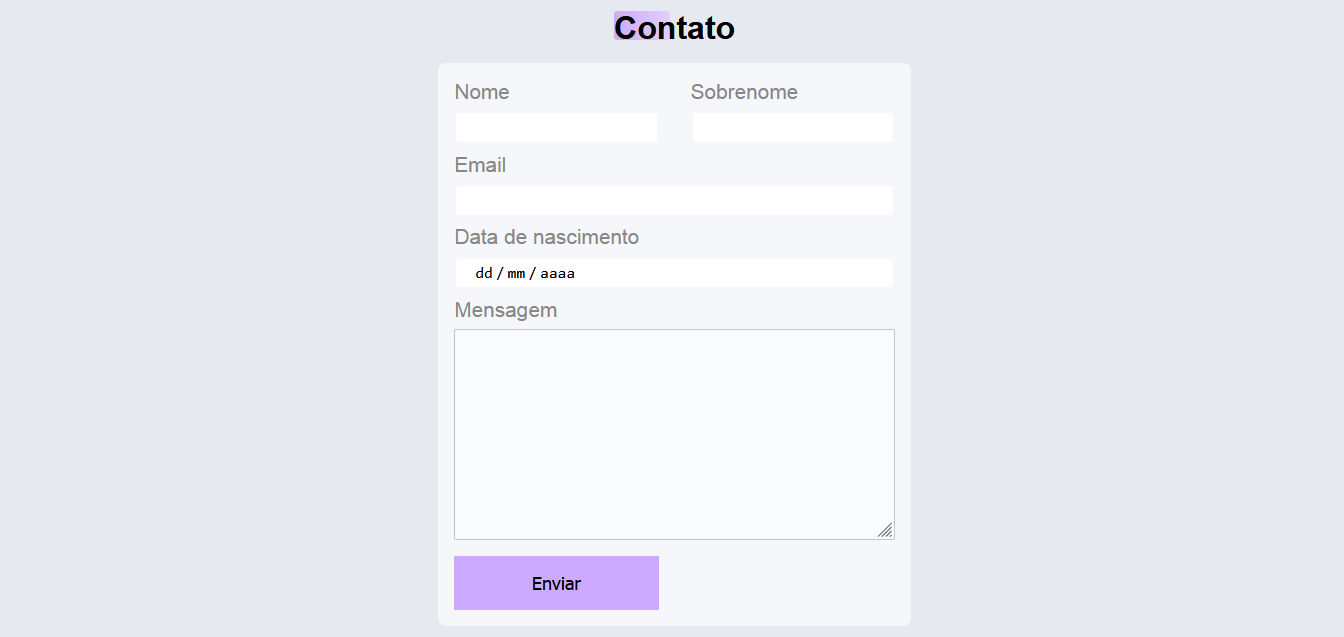
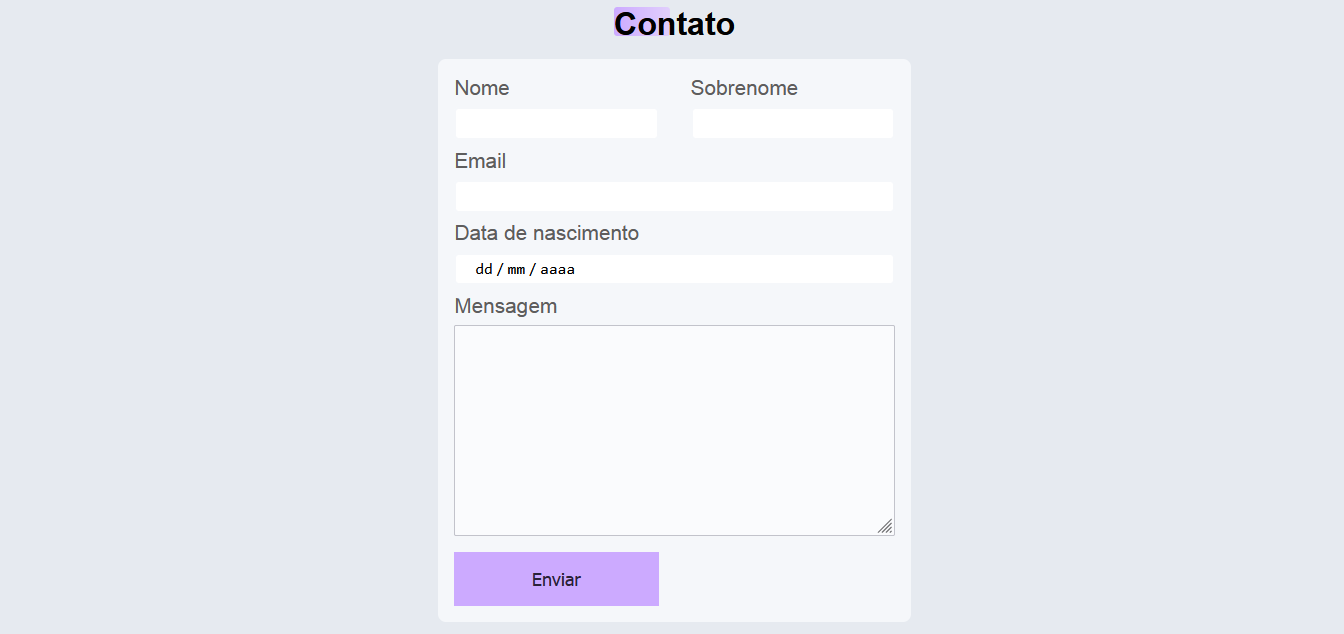
Update

diff --git a/css/style.min.css b/css/style.min.css
@@ -1,1 +1,1 @@
-:root{--fundo:#e6eaf0;--fundo-2:#f5f7fa;--cor-texto:#000000;--cor-button-texto:#634491;--cor-button-background:#ccaaff;--cor-button-hover:#e1cffc;--h1-before:linear-gradient(to right, #ccaaff, #e1cffc)}@media (prefers-color-scheme:dark){:root{--fundo:#1b1d20;--fundo-2:#404040;--cor-texto:#e3e3e3;--h1-before:linear-gradient(to right, #000000, #e6e3e3)}}*{margin:0;padding:0}body{font-family:sans-serif;background-color:var(--fundo);color:var(--cor-texto)}h1{text-align:center;font-size:2rem;margin-bottom:1rem;position:relative}h1::before{content:"";display:inline-block;background-image:var(--h1-before);width:3.5rem;height:1.8rem;position:absolute;z-index:-1;border-radius:.2rem;top:2px}form{display:grid;justify-items:start;justify-content:center}label{font-size:1.3rem;color:#878787}input{font-size:1rem;padding:.3rem 1rem;border-radius:.3rem;border:2px solid #f5f7fa}button{margin-top:.5rem;padding:1rem 2rem;font-size:18px;background-color:var(--cor-button-background);border:none;color:var(--cor-button-texto)}button:hover{background-color:var(--cor-button-hover);cursor:pointer}.container{max-width:1200px;margin-right:auto;margin-left:auto;padding:1.875rem}.container-form{background-color:var(--fundo-2);display:grid;grid-template-columns:repeat(2,1fr);gap:.5rem 2rem;padding:1rem;border-radius:.5rem}[for=sobrenome]{grid-column:2;grid-row:1}[type=email]{grid-column:1/-1}[type=date]{grid-column:1/-1}[name=mensagem]{grid-column:1/-1;font-size:1rem}@media (max-width:600px){.container{padding:10px}.container-form{grid-template-columns:1fr}[for=sobrenome]{grid-area:initial}}
+:root{--fundo:#e6eaf0;--fundo-2:#f5f7fa;--cor-texto:#000000;--cor-label-texto:#5e5d5d;--cor-button-texto:#2a2238;--cor-button-background:#ccaaff;--cor-button-hover:#e1cffc;--h1-before:linear-gradient(to right, #ccaaff, #e1cffc)}@media (prefers-color-scheme:dark){:root{--fundo:#1b1d20;--fundo-2:#404040;--cor-texto:#e3e3e3;--cor-label-texto:#bfbaba;--h1-before:linear-gradient(to right, #000000, #e6e3e3)}}*{margin:0;padding:0}body{font-family:sans-serif;background-color:var(--fundo);color:var(--cor-texto)}h1{text-align:center;font-size:2rem;margin-bottom:1rem;position:relative}h1::before{content:"";display:inline-block;background-image:var(--h1-before);width:3.5rem;height:1.8rem;position:absolute;z-index:-1;border-radius:.2rem;top:2px}form{display:grid;justify-items:start;justify-content:center}label{font-size:1.3rem;color:var(--cor-label-texto)}input{font-size:1rem;padding:.3rem 1rem;border-radius:.3rem;border:2px solid #f5f7fa}button{margin-top:.5rem;padding:1rem 2rem;font-size:18px;background-color:var(--cor-button-background);border:none;color:var(--cor-button-texto)}button:hover{background-color:var(--cor-button-hover);cursor:pointer}.container{max-width:1200px;margin-right:auto;margin-left:auto;padding:1.875rem}.container-form{background-color:var(--fundo-2);display:grid;grid-template-columns:repeat(2,1fr);gap:.5rem 2rem;padding:1rem;border-radius:.5rem}[for=sobrenome]{grid-column:2;grid-row:1}[type=email]{grid-column:1/-1}[type=date]{grid-column:1/-1}[name=mensagem]{grid-column:1/-1;font-size:1rem}@media (max-width:600px){.container{padding:10px}.container-form{grid-template-columns:1fr}[for=sobrenome]{grid-area:initial}}

diff --git a/css/style.css b/css/style.css
@@ -2,7 +2,8 @@
   --fundo: #e6eaf0;
   --fundo-2: #f5f7fa;
   --cor-texto: #000000;
-  --cor-button-texto: #634491;
+  --cor-label-texto: #5e5d5d;
+  --cor-button-texto: #2a2238;
   --cor-button-background: #ccaaff;
   --cor-button-hover: #e1cffc;
   --h1-before: linear-gradient(to right, #ccaaff, #e1cffc);
@@ -12,6 +13,7 @@
     --fundo: #1b1d20;
     --fundo-2: #404040;
     --cor-texto: #e3e3e3;
+    --cor-label-texto: #bfbaba;
     --h1-before: linear-gradient(to right, #000000, #e6e3e3);
   }
 }
@@ -48,7 +50,7 @@ form {
 }
 label {
   font-size: 1.3rem;
-  color: #878787;
+  color: var(--cor-label-texto);
 }
 input {
   font-size: 1rem;

diff --git a/index.html b/index.html
@@ -6,6 +6,7 @@
   <meta http-equiv="X-UA-Compatible" content="IE=edge">
   <meta name="viewport" content="width=device-width, initial-scale=1.0">
   <link rel="stylesheet" href="./css/style.min.css">
+  <meta name="description" content="Formulário com intuito de aprendizado.">
   <title>Formulário</title>
 </head>
 
